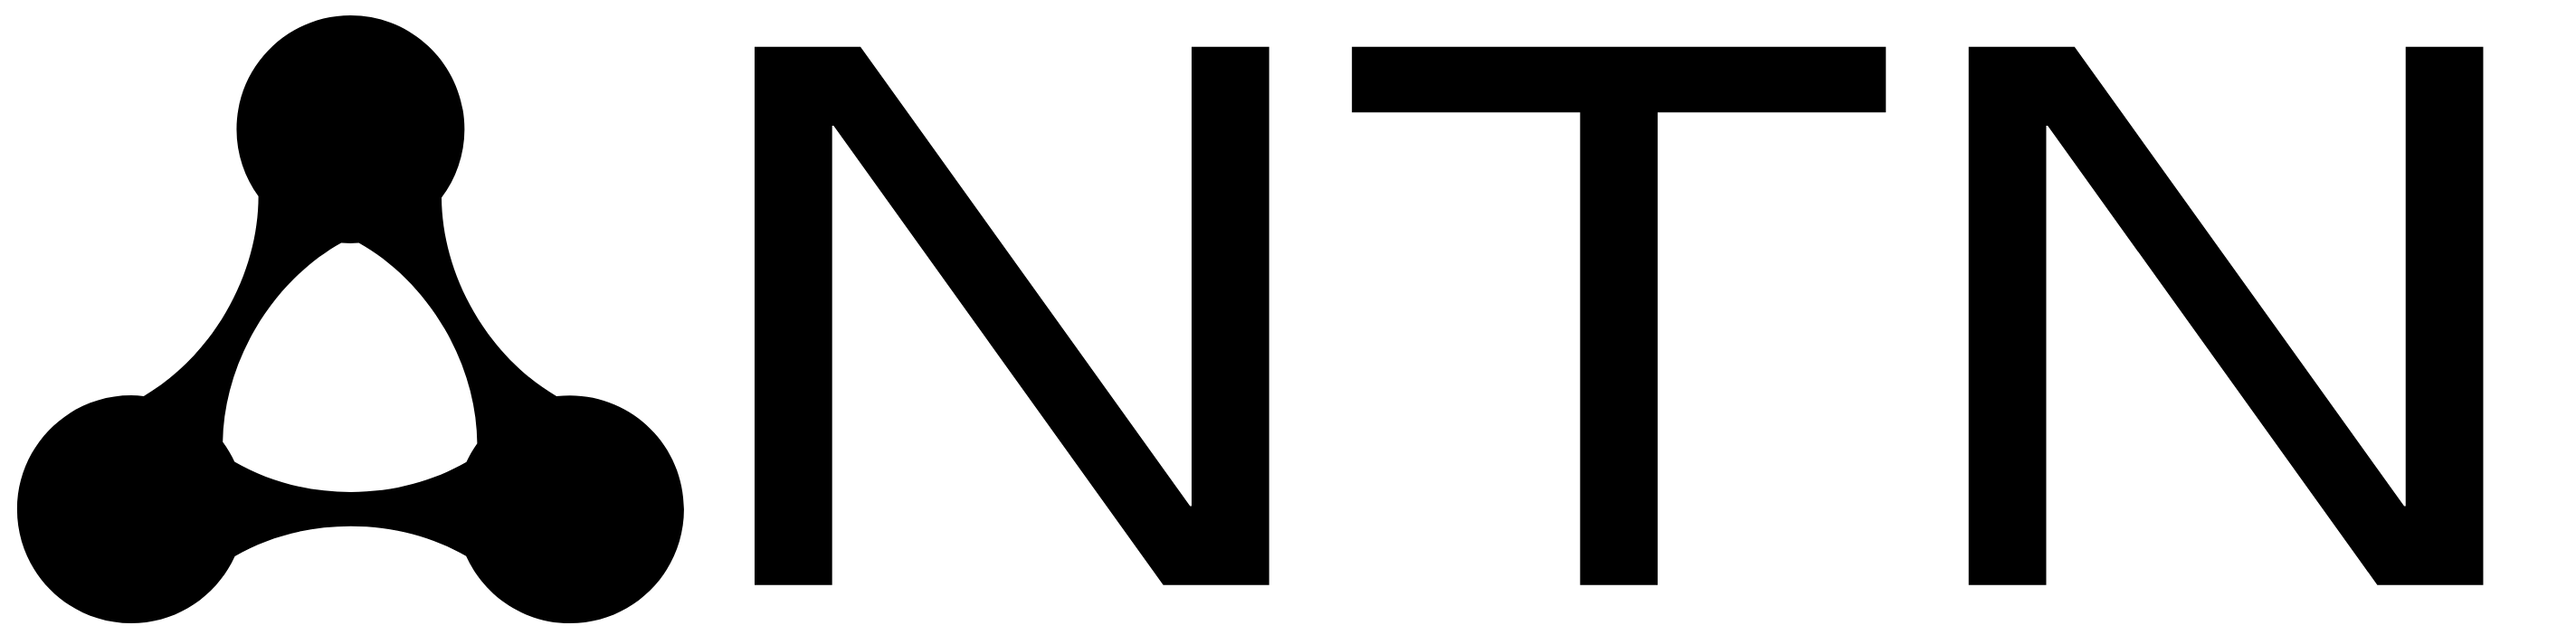
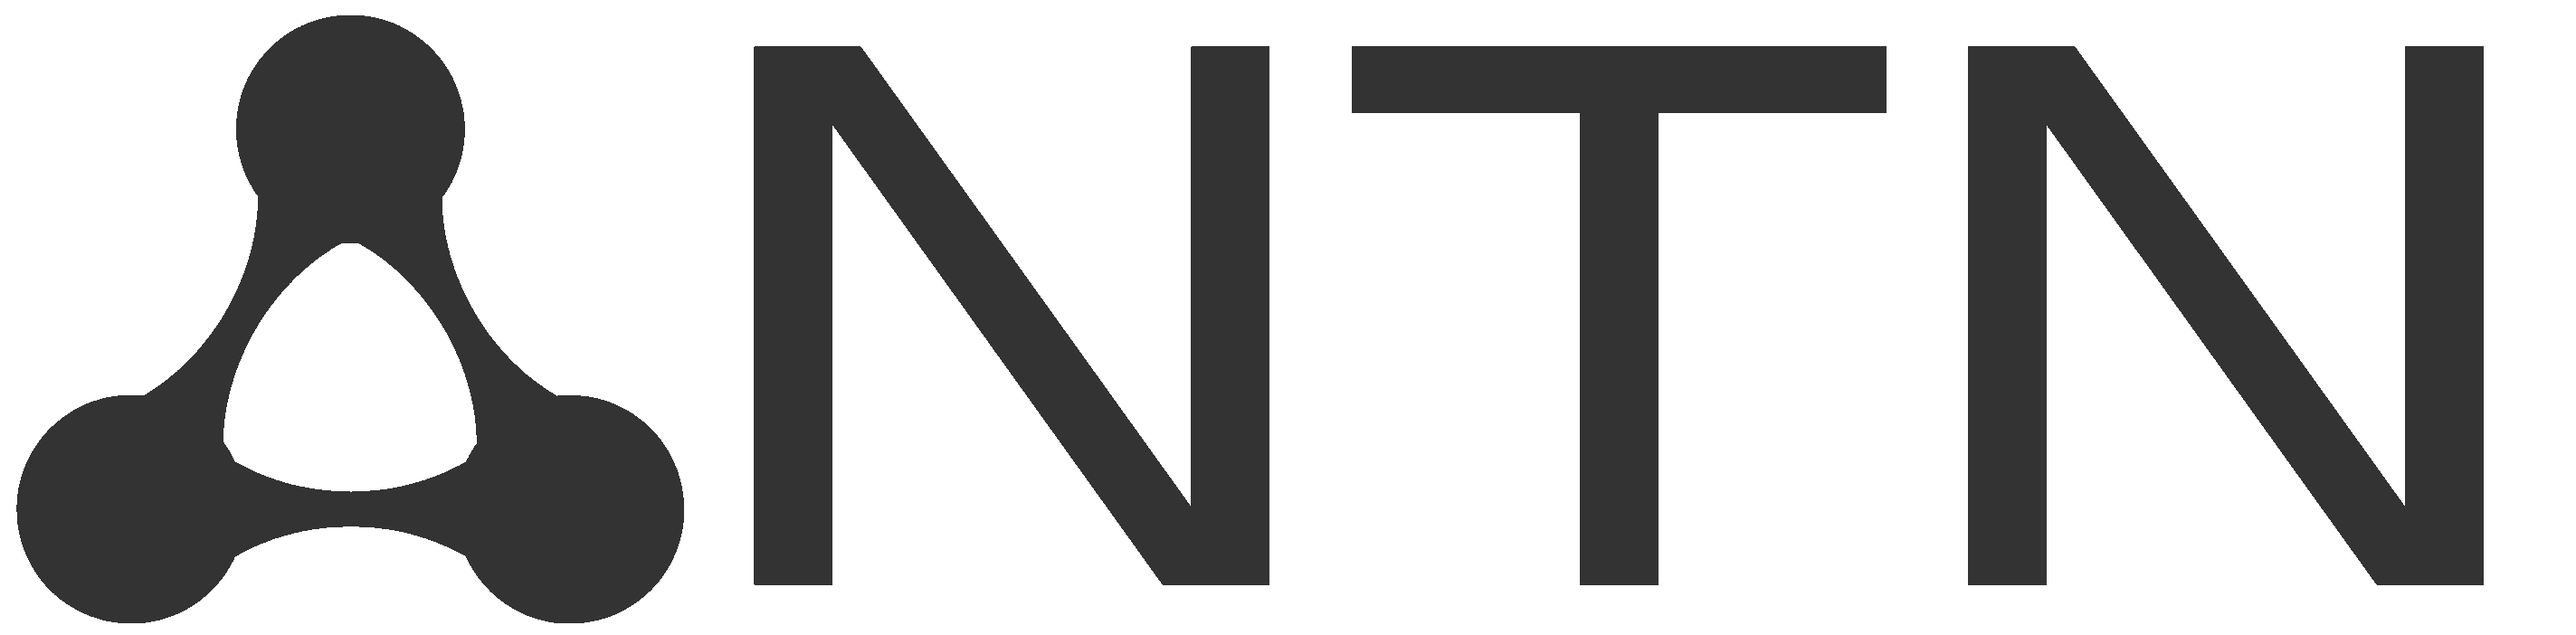
wip

Changed region(s): [[0.0, 0.0299, 0.4946, 0.9872], [0.5255, 0.0598, 0.9891, 0.9274]]

diff --git a/static/notes-core.css b/static/notes-core.css
@@ -1,3 +1,60 @@
+:root {
+	--background-color: #ffffff;
+	--text-color: #444;
+    --link-color: #0a79d4;
+    --secondary-text-color: #767676;
+}
+
+@media (prefers-color-scheme: dark) {
+
+    :root {
+       --background-color: #333;
+       --text-color: #ccc;
+       --link-color: #6a9ce7;
+       --secondary-text-color: #9b9b9b;
+   }
+
+   .header img {
+        filter: invert(100%);
+   }
+
+   /*
+   
+   body {
+       background-color: var(--background-color);
+       color: var(--text-color);
+   };
+
+   a {
+       color: var(--link-color);
+   }
+
+   .note_preview_subtitle {
+       color: var(--secondary-text-color);
+   }
+
+   .note_preview_subtitle a {
+       color: var(--secondary-text-color);
+   }
+
+   .header {
+       color: var(--secondary-text-color);   
+   }
+
+   .navbar {
+       color: var(--secondary-text-color)
+   }
+
+   .navbar li a {
+       color: var(--secondary-text-color)
+   }
+
+   #mc_embed_signup {
+       background-color: var(--background-color)
+   }
+   */
+}
+
 .header {
     vertical-align: middle;
     text-align: right;
@@ -10,9 +67,8 @@
     float: left;
 }
 
-.navbar {
-    max-width: 800px;
-    margin: auto;
+.header h1 {
+    font-family: monospace;
 }
 
 .navbar ul {
@@ -27,8 +83,9 @@
 }
 
 .navbar li a {
-    color: #444;
+    color: var(--text-color);
 }
+
 
 .content {
     max-width: 800px;
@@ -36,11 +93,11 @@
 }
 
 body {
-
     line-height: 1.6;
     font-size: 18px;
-    color: #444;
-    padding: 0 10px
+    background-color: var(--background-color);
+    color: var(--text-color);
+    padding: 0 10px;
 }
 
 h1, h2, h3 {
@@ -53,7 +110,13 @@ pre {
 }
 
 a {
-    color: rgb(10, 121, 212)
+    color: var(--link-color);
+}
+
+.tag_list {
+    padding: 20px;
+    font-size: small;
+    text-align: center;
 }
 
 .note_preview {
@@ -67,13 +130,13 @@ a {
     overflow: ellipsis;
 }
 .note_preview_subtitle {
-    color: grey;
+    color: var(--secondary-text-color);
     line-height: 1;
     font-size: small;
 }
 
 .note_preview_subtitle a{
-    color: grey;
+    color: var(--secondary-text-color);
 }
 
 .note_preview_summary {
@@ -82,10 +145,6 @@ a {
     display: -webkit-box;
     -webkit-line-clamp: 3; /* number of lines to show */
     -webkit-box-orient: vertical;
-}
-
-a :visited {
-    color: rgb(10, 121, 212)
 }
 
 .footer {
@@ -99,4 +158,8 @@ a :visited {
 
 .error h1 {
     font-size: 10em;
+}
+
+#mc_embed_signup {
+    background-color: var(--background-color) !important;
 }

diff --git a/templates/base.html b/templates/base.html
@@ -3,12 +3,27 @@
 <head>
     <title>{{ config.SITE_NAME }}</title>
     <link rel="stylesheet" href="{{ url_for('static', filename='notes-core.css') }}"/>
+    <link rel="apple-touch-icon" sizes="57x57" href="{{ url_for('static', filename='favicon/apple-icon-57x57.png') }}">
+    <link rel="apple-touch-icon" sizes="60x60" href="{{ url_for('static', filename='favicon/apple-icon-60x60.png') }}">
+    <link rel="apple-touch-icon" sizes="72x72" href="{{ url_for('static', filename='favicon/apple-icon-72x72.png') }}">
+    <link rel="apple-touch-icon" sizes="76x76" href="{{ url_for('static', filename='favicon/apple-icon-76x76.png') }}">
+    <link rel="apple-touch-icon" sizes="114x114" href="{{ url_for('static', filename='favicon/apple-icon-114x114.png') }}">
+    <link rel="apple-touch-icon" sizes="120x120" href="{{ url_for('static', filename='favicon/apple-icon-120x120.png') }}">
+    <link rel="apple-touch-icon" sizes="144x144" href="{{ url_for('static', filename='favicon/apple-icon-144x144.png') }}">
+    <link rel="apple-touch-icon" sizes="152x152" href="{{ url_for('static', filename='favicon/apple-icon-152x152.png') }}">
+    <link rel="apple-touch-icon" sizes="180x180" href="{{ url_for('static', filename='favicon/apple-icon-180x180.png') }}">
+    <link rel="icon" type="image/png" sizes="192x192"  href="{{ url_for('static', filename='favicon/android-icon-192x192.png') }}">
+    <link rel="icon" type="image/png" sizes="32x32" href="{{ url_for('static', filename='favicon/favicon-32x32.png') }}">
+    <link rel="icon" type="image/png" sizes="96x96" href="{{ url_for('static', filename='favicon/favicon-96x96.png') }}">
+    <link rel="icon" type="image/png" sizes="16x16" href="{{ url_for('static', filename='favicon/favicon-16x16.png') }}">
 </head>
-<body class={% block body_class %}{% endblock %}>
+<body>
+<div class=page>
 {% include "header.html" %}
-{% include "nav.html" %}
 <div class=content>
+{% include "nav.html" %}
 {% block content %}{% endblock %}
-</div>
 {% include "footer.html" %}
+</div>
+</div>
 </body>

diff --git a/templates/index.html b/templates/index.html
@@ -1,11 +1,17 @@
 {% extends "base.html" %}
 {% block content %}
 {% for note in notes %}
-    <div class="note_preview">
-        <p class="note_preview_title"><a href = {{ config.NOTES_DIR }}/{{ note.filename }}>{{ note.title }}</a> </p>
-        <p class="note_preview_subtitle">By {{ note.author }} on {{ note.publication_date }} 
-            Tags: {% for tag in note.tags %} <a href="tags?tag={{ tag }}">{{ tag }}</a>{{ "," if not loop.last }}{% endfor %}</p>
+<div class="note_preview">
+    <p class="note_preview_title"><a href = {{ config.NOTES_DIR }}/{{ note.filename }}>{{ note.title }}</a> </p>
+    <p class="note_preview_subtitle">By {{ note.author }} on {{ note.publication_date }} 
+        Tags: {% for tag in note.tags %} <a href="/tags?tag={{ tag }}">{{ tag }}</a>{{ "," if not loop.last }}{% endfor %}</p>
         <p class="note_preview_summary">{{ note.summary }}</p>
     </div>
-{% endfor %}
+    {% endfor %}
+
+    {% if tag_set is defined %}
+    <div class="tag_list">
+        <strong>Tags</strong> {% for tag in tag_set %}<a href="/tags?tag={{ tag }}">{{ tag }}</a> {% endfor %}
+    </div>
+    {% endif %}
 {% endblock %}

diff --git a/templates/header.html b/templates/header.html
@@ -1,1 +1,6 @@
-<div class="header"><h1><img src="/static/images/{{ config.HEADER_IMAGE }}">{{ config.HEADER_TEXT }}</h1></div>
+<div class="header">
+    <h1>
+        <img src="/static/images/{{ config.HEADER_IMAGE }}">
+        {{ config.HEADER_TEXT }}
+    </h1>
+</div>

diff --git a/serve.py b/serve.py
@@ -10,12 +10,12 @@ app = Flask(__name__)
 # TODO as we get closer migrate to https://flask.palletsprojects.com/en/1.1.x/config/
 app.config.from_pyfile("config.py")
 
-notes = render_all()
+notes, tag_set = render_all()
 
 @app.route("/")
 def index():
 
-    return render_template("index.html", notes=notes)
+    return render_template("index.html", notes=notes, tag_set=tag_set)
 
 @app.route("/tags")
 def tags():
@@ -24,9 +24,7 @@ def tags():
 
     matching_articles = [note for note in notes if tag in note.tags]
 
-    print(matching_articles)
-
-    return render_template("index.html", notes=matching_articles)
+    return render_template("index.html", notes=matching_articles, tag_set=tag_set)
 
 @app.route(f"/{app.config['NOTES_DIR']}/<path:filename>")
 def posts(filename):

diff --git a/render.py b/render.py
@@ -57,6 +57,21 @@ def get_summary_from_html(output_file):
     return ""
 
 
+def get_tags(notes):
+
+    tag_set = set()
+
+    for note in notes:
+
+        for tag in note.tags:
+
+            tag_set.add(tag)
+
+    return sorted(tag_set)
+
+
+
+
 def render_all():
 
     notes = []
@@ -86,7 +101,14 @@ def render_all():
 
             notes.append(Note(output_file, clean_filename, **metadata))
 
-    return notes
+    tag_set = get_tags(notes)
+
+    published_notes = (note for note in notes if note.publication_date is not None)
+
+    published_notes = sorted(published_notes, reverse=True,
+                    key=lambda n: n.publication_date)
+
+    return published_notes, tag_set
 
 if __name__ == "__main__":
 

diff --git a/notes.py b/notes.py
@@ -18,13 +18,12 @@ class Note:
         self.title = kwargs.get("title")
         self.author = kwargs.get("author")
         self.publication_date = kwargs.get("publication_date")
-        self.published = kwargs.get("published")
         self.summary = kwargs.get("summary")
 
         self.tags = kwargs.get("tags")
 
         if self.tags == None:
-            self.tags = ["unfiled"]
+            self.tags = ["Unfiled"]
 
         # non-default, default value provided in config
         self.post_image = kwargs.get("post_image")

diff --git a/config.py b/config.py
@@ -8,8 +8,9 @@ NOTES_DIR = "notes"
 SITE_NAME = "Never The Network"
 HEADER_TEXT = "It's Never The Network"
 HEADER_IMAGE = "ntn_black.png"
+NIGHT_MODE_HEADER_IMAGE = "ntn_night.png"
 NAV_LINKS = [
     ["/", "Home"],
-    ["/about", "About"]
+    ["/about", "About"],
 ]
 STYLESHEET = "notes-core.css"
